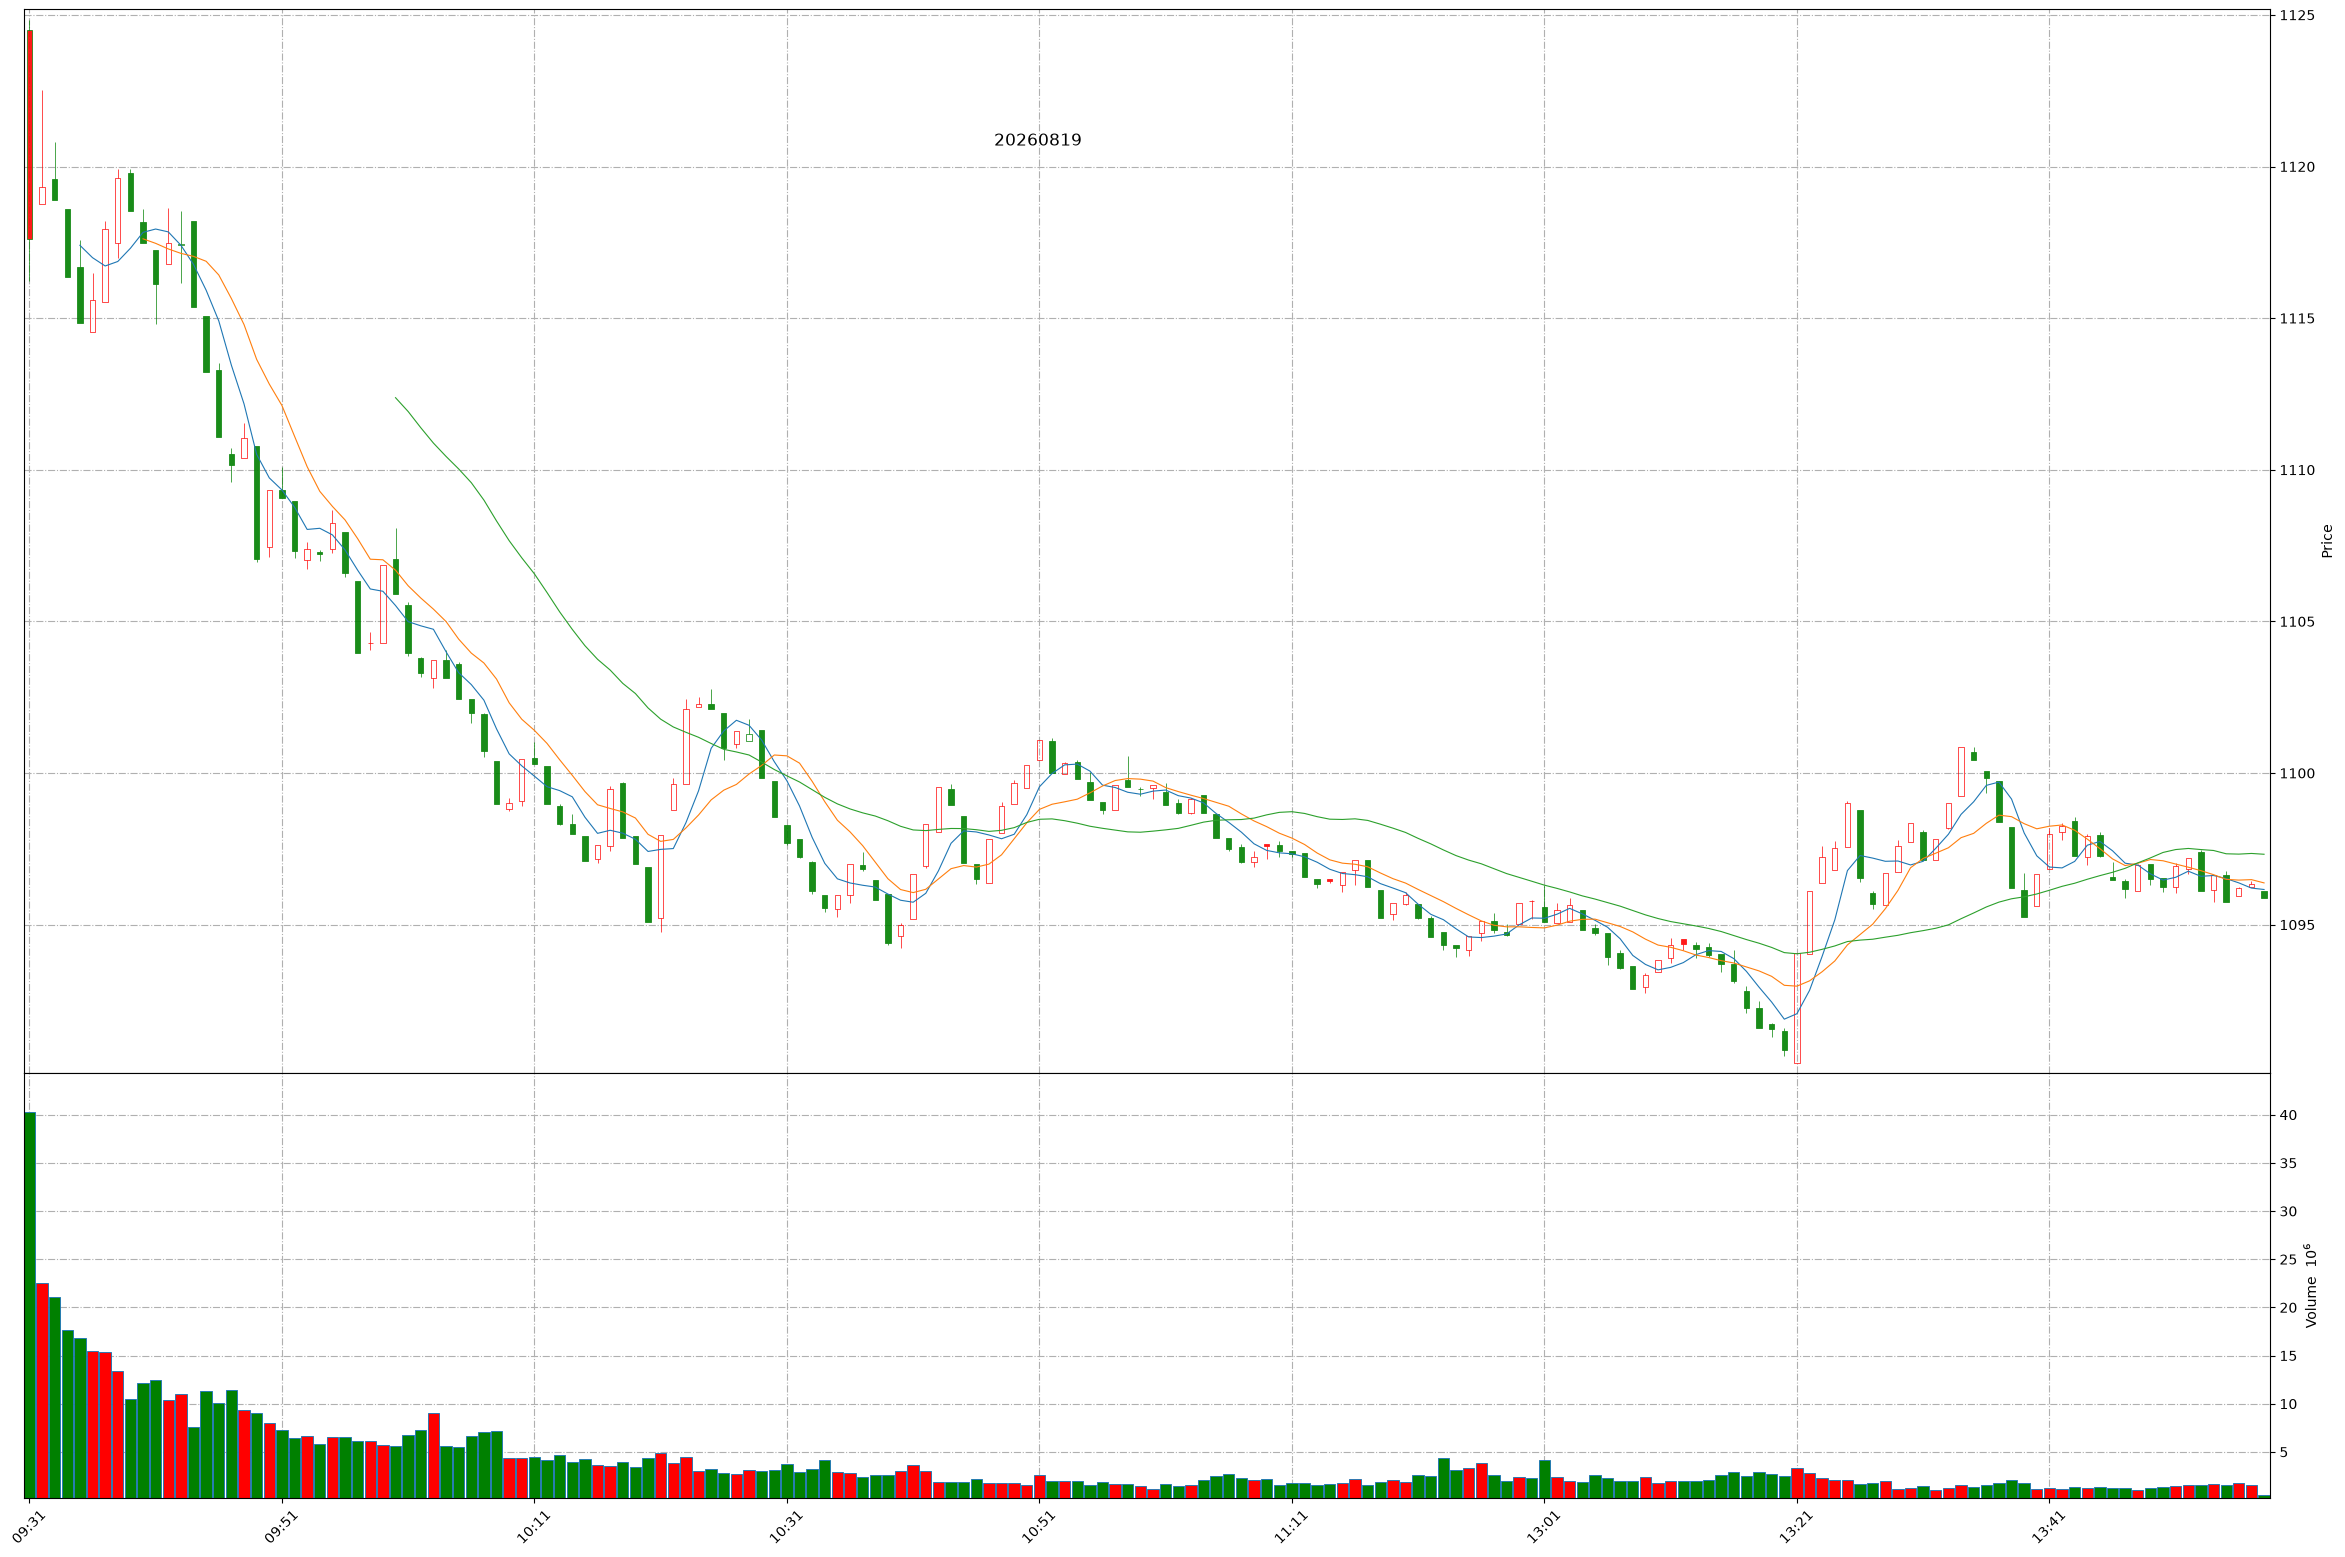
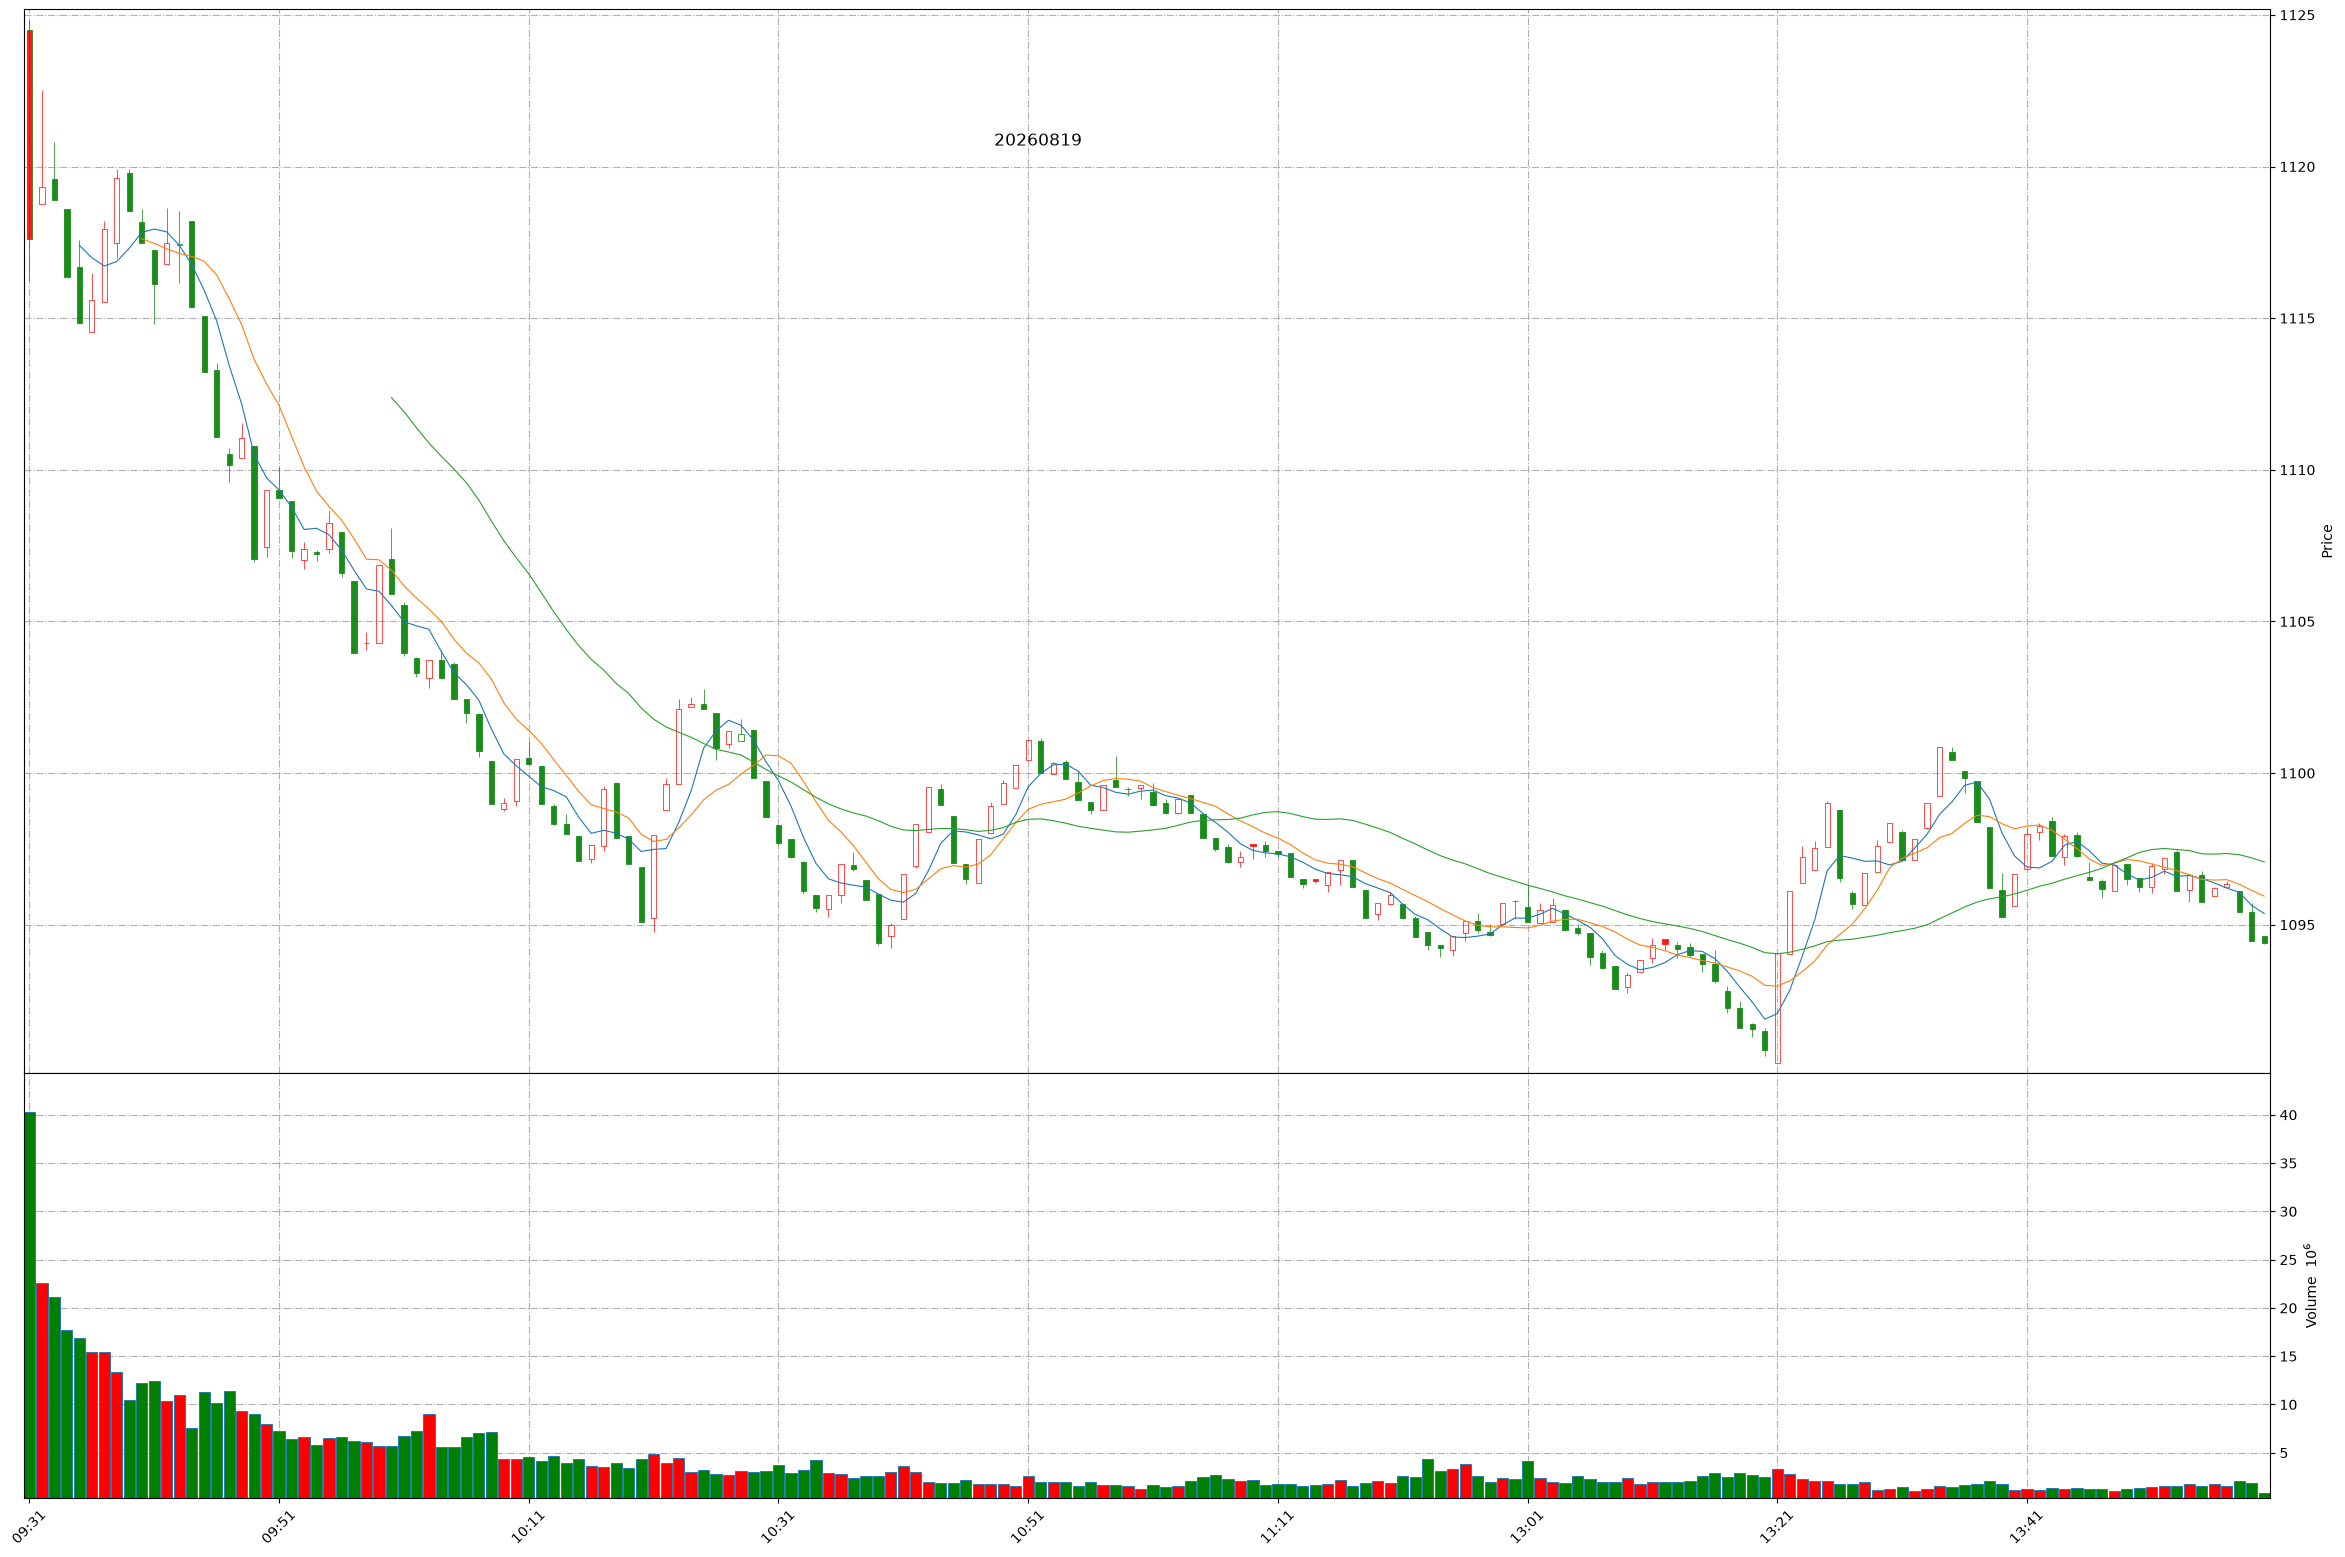
Github action update at 2026-08-19 13:59:37.

diff --git a/README.md b/README.md
@@ -1,11 +1,11 @@
 
 # Daily-A-share-market-quotes 每日 A 股指数（5min 更新）- 20260819
 
-### 上证指数 20260819 13:57
+### 上证指数 20260819 13:59
 ![](./fig/2026/8/20260819-sh000001.png)
 
-### 深证成指 20260819 13:57
+### 深证成指 20260819 13:59
 ![](./fig/2026/8/20260819-sz399001.png)
 
-### 北证50 20260819 13:57
+### 北证50 20260819 13:59
 ![](./fig/2026/8/20260819-bj899050.png)
